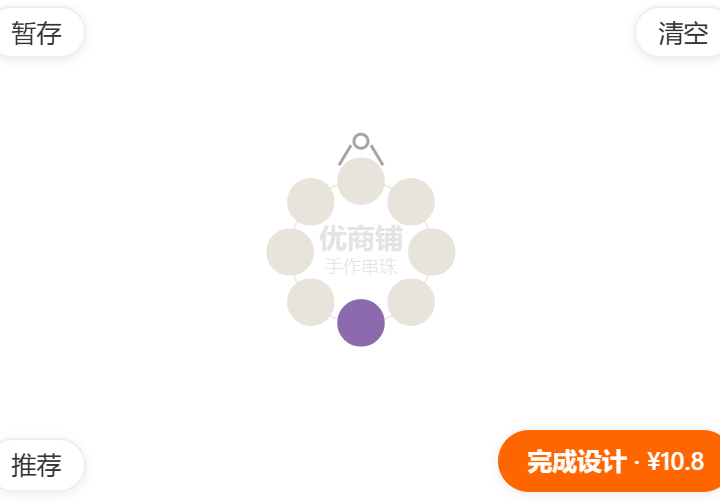
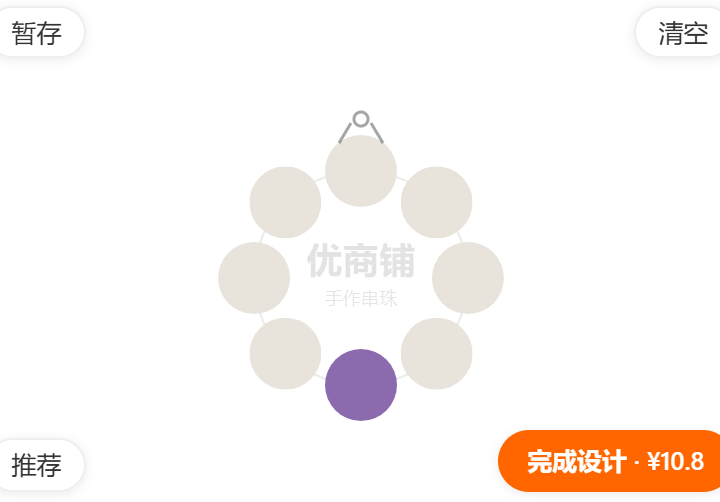
feat(diy): 画布布局方案 A——绳结顶置·环贴底，珠子渲染尺寸 +40~56%
- BeadRing render: 顶部固定预留绳结带 26px，环在剩余空间垂直居中；替代 decorExt=18mm 上下对称压缩（绳结只在顶部、底部空间纯浪费）
- 有配饰挂坠时按挂坠实际外伸（坠半径+挂钩 6px）上下追加预留，两轮迭代收敛
- geo.cy 全链路跟随（轨道圆/水印/drawRing/knotY/配饰挂点/拖拽命中）
- _verify_diy_p72: calibrate 升级双珠心 runs 扫描自适应环心 + 过环心水平行交叉验证；出环删除改右侧（贴底后下方无环外空间）；track/watermark 采样中心改环心
- 回归 15/15 PASS：n8 珠半径 11.2->17.5px（+56%）、n4 12.5->17.7（+40%）

Changed region(s): [[0.3056, 0.2092, 0.7028, 0.8367]]

diff --git a/src/pkg-diy/components/BeadRing.vue b/src/pkg-diy/components/BeadRing.vue
@@ -113,17 +113,33 @@ function render() {
     // 珠心轨迹半径（mm）：Σ(珠径+间隙) / 2π，下限防 1-2 颗时退化
     const centerR = Math.max(maxR + 4, (beads.length * (maxR * 2 + gapMm)) / (Math.PI * 2));
     const pad = 6;
-    const decorExt = (props.decors?.length ?? 0) > 0 || props.knotVisible !== false ? 18 : 0;
-    const scale = Math.min(6, Math.max(0.3, Math.min(
-        (w / 2 - pad) / (centerR + maxR),
-        (h / 2 - pad) / (centerR + maxR + decorExt),
-    )));
+    // 绳结顶置·环贴底（方案 A）：顶部固定预留绳结带，环在剩余空间垂直居中，
+    // scale 不再被 decorExt 上下对称压缩；有配饰挂坠时按挂坠实际外伸上下追加预留（迭代收敛）
+    const hasDecor = (props.decors?.length ?? 0) > 0;
+    const knotSpace = props.knotVisible !== false ? 26 : 0;
+    const decorMm = hasDecor
+        ? Math.max(0, ...(props.decors ?? []).map(d => {
+            const r0 = (props.decorRows ?? []).find(x => x.id === d.materialId);
+            return (r0?.diameter ?? r0?.axialLength ?? 8) / 2;
+        }))
+        : 0;
+    const scaleH = (w / 2 - pad) / (centerR + maxR);
+    let decorPx = decorMm > 0 ? decorMm * scaleH + 6 : 0;   // 挂钩外伸 ≈ 坠半径 + 6px
+    let scale = 1;
+    for (let it = 0; it < 3; it++) {
+        const avail = h - knotSpace - 2 * decorPx - 2 * pad;
+        scale = Math.min(6, Math.max(0.3, Math.min(scaleH, avail / 2 / (centerR + maxR))));
+        const next = decorMm > 0 ? decorMm * scale + 6 : 0;
+        if (Math.abs(next - decorPx) < 0.5) { decorPx = next; break; }
+        decorPx = next;
+    }
+    const cy = pad + knotSpace + decorPx + (h - knotSpace - 2 * decorPx - 2 * pad) / 2;
     const ringR = centerR * scale;
-    geo = { cx: w / 2, cy: h / 2, ringR, scale, radii: radiiMm, n: beads.length };
+    geo = { cx: w / 2, cy, ringR, scale, radii: radiiMm, n: beads.length };
     // 细轨道圆（珠心轨迹，先于珠子绘制；H5 单位矩阵铁律：禁 scale(dpr)）
     ctx.strokeStyle = 'rgba(0,0,0,0.08)';
     ctx.lineWidth = 1;
-    ctx.beginPath(); ctx.arc(w / 2, h / 2, ringR, 0, Math.PI * 2); ctx.stroke();
+    ctx.beginPath(); ctx.arc(w / 2, cy, ringR, 0, Math.PI * 2); ctx.stroke();
     // 环心水印：品牌名 + 标语（透明度 0.10~0.12）
     const wm = props.brandWatermark || '';
     const slogan = props.brandSlogan || '';
@@ -134,12 +150,12 @@ function render() {
         if (wm) {
             ctx.fillStyle = 'rgba(0,0,0,0.11)';
             ctx.font = `600 ${fs1}px sans-serif`;
-            ctx.fillText(wm, w / 2, h / 2 - (slogan ? fs1 * 0.15 : fs1 * 0.35));
+            ctx.fillText(wm, w / 2, cy - (slogan ? fs1 * 0.15 : fs1 * 0.35));
         }
         if (slogan) {
             ctx.fillStyle = 'rgba(0,0,0,0.10)';
             ctx.font = `${fs2}px sans-serif`;
-            ctx.fillText(slogan, w / 2, h / 2 + fs1 * 0.75);
+            ctx.fillText(slogan, w / 2, cy + fs1 * 0.75);
         }
     }
     const rs: RenderBead[] = beads.map((b, i) => ({
@@ -150,10 +166,10 @@ function render() {
         sprite: (b.renderUrl && spriteMap.value.get(b.renderUrl)) || null,
         seed: hashSeed(b.materialId || b.color),
     }));
-    drawRing(ctx, rs, w / 2, h / 2, ringR, ringR);
+    drawRing(ctx, rs, w / 2, cy, ringR, ringR);
     // 结位（12 点位）：结点 + 双线尾；隐藏时仅留小刻度点
     decorPos = new Map();
-    const knotY = h / 2 - ringR - maxR * scale - 8;
+    const knotY = cy - ringR - maxR * scale - 8;
     knotPos = { x: w / 2, y: knotY - 12 };
     if (props.knotVisible !== false) {
         ctx.strokeStyle = 'rgba(0,0,0,0.35)'; ctx.lineWidth = 1.5;
@@ -174,7 +190,7 @@ function render() {
         } else {
             const a = -Math.PI / 2 + (Math.PI * 2 * (d0.slot + 0.5)) / geo.n;
             ax = w / 2 + (ringR + maxR * scale) * Math.cos(a);
-            ay = h / 2 + (ringR + maxR * scale) * Math.sin(a);
+            ay = cy + (ringR + maxR * scale) * Math.sin(a);
         }
         decorPos.set(d0.decorId, { x: ax, y: ay });
         drawDecorAt(ax, ay, d0);

diff --git a/scripts/_verify_diy_p72.py b/scripts/_verify_diy_p72.py
@@ -136,11 +136,32 @@ def main():
             cv_el().screenshot(path=tmp)
             img = Image.open(tmp).convert('RGB')
             s = img.width / b['width']
-            yc, xc = img.height // 2, img.width // 2
+            xc = img.width // 2
             # 背景采样避开四角悬浮按钮及其阴影（角落已被 fab 覆盖），取顶部中央纯画布区
             bg = img.getpixel((xc, 4))
             def diff(p, q):
                 return max(abs(a - b2) for a, b2 in zip(p, q))
+            # 环贴底（方案 A）：环心不再等于画布中心。x=xc 整列 runs 扫描，最长两段 = 底珠/顶珠
+            # （水印笔画/绳结 run 均短于珠 run），珠心均值 = 环心、珠心距/2 = ring，对布局自适应
+            runs = []
+            yy = img.height - 3
+            while yy > 2:
+                if diff(img.getpixel((xc, yy)), bg) > 32:
+                    y_end = yy
+                    while yy > 2 and diff(img.getpixel((xc, yy)), bg) > 32:
+                        yy -= 1
+                    runs.append((yy + 1, y_end))
+                yy -= 1
+            assert len(runs) >= 2, f'col runs fail {runs}'
+            runs.sort(key=lambda r0: r0[1] - r0[0], reverse=True)
+            (t1, e1), (t2, e2) = runs[0], runs[1]
+            y_bot = max(t1 + e1, t2 + e2) / 2
+            y_top = min(t1 + e1, t2 + e2) / 2
+            bead = min(e1 - t1, e2 - t2) / 2 / s
+            ring = (y_bot - y_top) / 2 / s
+            cy_img = (y_bot + y_top) / 2
+            # 过环心水平行交叉验证：左右珠外缘 = ring + bead（n4/n8 布局 0°/180° 恒有珠）
+            yc = int(cy_img)
             xr = xl = None
             for x in range(img.width - 3, xc, -1):
                 if diff(img.getpixel((x, yc)), bg) > 25:
@@ -148,26 +169,11 @@ def main():
             for x in range(3, xc):
                 if diff(img.getpixel((x, yc)), bg) > 25:
                     xl = x; break
-            # 底部向上列扫描（x=xc）：90° 位恒有珠（n4 idx2 / n8 idx4），第一个连续非 bg run = 底珠，
-            # run 上下缘给出 ring±bead；免疫环心水印/slogan（浅色且与珠间有 bg 间隔）与 12 点位绳结
-            ye = yb = None
-            for yy in range(img.height - 3, yc, -1):
-                if diff(img.getpixel((xc, yy)), bg) > 32:
-                    ye = yy
-                    break
-            if ye:
-                yy = ye
-                while yy > yc and diff(img.getpixel((xc, yy)), bg) > 32:
-                    yy -= 1
-                yb = yy + 1
-            assert xr and xl and ye and yb, f'scan fail xr={xr} xl={xl} ye={ye} yb={yb}'
+            assert xr and xl, f'h-scan fail xr={xr} xl={xl}'
             r_out = (xr - xl) / 2 / s                       # 水平：ring + bead
-            ring_v = ((ye + yb) / 2 - img.height / 2) / s   # 环心到底珠中心 = ring
-            bead_v = (ye - yb) / 2 / s                      # run 半高 = bead
-            assert abs(r_out - (ring_v + bead_v)) < 4, f'geo mismatch h={r_out:.1f} v={ring_v + bead_v:.1f}'
-            ring, bead = ring_v, bead_v
+            assert abs(r_out - (ring + bead)) < 4, f'geo mismatch h={r_out:.1f} v={ring + bead:.1f}'
             print(f'  [cal {tag}] ring={ring:.1f} bead={bead:.1f} (R_out={r_out:.1f})')
-            return b['x'] + b['width'] / 2, b['y'] + b['height'] / 2, ring, bead
+            return b['x'] + b['width'] / 2, b['y'] + cy_img / s, ring, bead
 
         cx, cy, ring4, bead4 = calibrate('n4')
 
@@ -186,8 +192,8 @@ def main():
         seq2 = strip_colors()
         check('swap-2', seq2 == [color_a, color_b, color_b, color_a], f'seq={seq2}')
 
-        # ---------- 判据 3：出环删除（底部珠 i2 → 下方出环） ----------
-        drag(line(cx, cy + ring4, cx, cy + ring4 * 1.9))
+        # ---------- 判据 3：出环删除（底部珠 i2 → 右侧出环；环贴底后下方无环外空间） ----------
+        drag(line(cx, cy + ring4, cx + ring4 * 1.9, cy))
         seq3 = strip_colors()
         check('remove', len(seq3) == 3, f'{len(seq0)}->{len(seq3)} seq={seq3}')
 
@@ -247,7 +253,7 @@ def main():
         s8 = img.width / b8['width']
         bg8 = img.getpixel((4, 4))
         bg_lum = sum(bg8) / 3
-        ex, ey = b8['width'] / 2, b8['height'] / 2   # 画布中心（元素坐标）
+        ex, ey = b8['width'] / 2, cy - b8['y']   # 环心（calibrate 自适应；环贴底后 ≠ 画布中心）
         def px(x, y):
             return img.getpixel((min(max(int(x * s8), 0), img.width - 1),
                                  min(max(int(y * s8), 0), img.height - 1)))
@@ -274,10 +280,10 @@ def main():
                     cnt += 1
         check('watermark', cnt > 20, f'dark={cnt}')
 
-        # ---------- 判据 4b：delete 红圈预览（hold 截图）+ 8→7 ----------
+        # ---------- 判据 4b：delete 红圈预览（hold 截图）+ 8→7（右侧出环，环贴底后下方无空间） ----------
         b4 = (cx, cy + ring8)
-        drop_y = cy + min(ring8 * 1.9, b8['height'] / 2 - 6)
-        drag(line(b4[0], b4[1], b4[0], drop_y), hold=True)
+        drop_x = cx + min(ring8 * 1.9, b8['width'] / 2 - 6)
+        drag(line(b4[0], b4[1], drop_x, cy), hold=True)
         page.wait_for_timeout(150)
         shot_del = os.path.join(SHOTS, 'p72-delete-preview.png')
         cv_el().screenshot(path=shot_del)

diff --git a/docs/pkg-diy-操作手册.md b/docs/pkg-diy-操作手册.md
@@ -71,11 +71,13 @@
 ### 5.2 常驻素材面板
 - 设计器底部常驻「素材」面板（替代原弹层抽屉）：左侧分类栏 + 右侧素材网格 + 顶部搜索框，点素材直接追加到手串，无需切换弹层即可连续加珠；「珠子 / 配饰」双 tab 切换。
 - 非 free 模式下摘要条打开计算明细/槽位浮层，选槽位后点素材卡即指派。
-- **分页 + 自定义滚动条**（2026-10-14）：素材超出单页 9 款（3 列 × 3 行）自动出现页码条（‹ 1 2 … 8 ›，页码直达 + 上一页/下一页，页数多自动折叠省略号），切 tab/分类/搜索自动回第 1 页、总页数收缩自动收敛当前页；网格与分类栏自带 5px 品牌橙自定义滚动条纵向滚动兜底；翻页/切分类有 160ms 淡入过渡，交互响应实测 3~7ms（<100ms）。
+- **分页 + 自定义滚动条**（2026-10-14）：素材超出单页 9 款（3 列 × 3 行）自动出现页码条（‹ 1 2 … 8 ›，页码直达 + 上一页/下一页，页数多自动折叠省略号），切 tab/分类/搜索自动回第 1 页、总页数收缩自动收敛当前页；网格与分类栏自带 5px 品牌橙自定义滚动条纵向滚动兜底；翻页/切分类有 160ms 淡入过渡，交互响应实测 3~9ms（<100ms）。
+- **分类过滤修复**（2026-10-14）：修复点分类恒 0 款的类型不一致 bug（素材 categoryId 后端数值 vs 分类字符串 id，严格不等恒过滤为空），统一 `String()` 比较后切分类/分类下搜索均正常命中（线上实测：点分类 9 款、分类下搜「紫」4 款）。
 
 ### 5.3 环心水印与轨道圆
 - 画布环心绘制店铺品牌水印（品牌名 + 标语，透明度 0.10~0.12），取自租户 shopName，未配置时自动省略。
 - 珠心轨迹绘制细灰轨道圆（rgba 0.08），拖拽落点参照更直观。
+- **绳结顶置·环贴底布局**（2026-10-14，方案 A）：顶部固定预留绳结带 26px，手串在剩余空间垂直居中——替代原 decorExt=18mm 上下对称预留（绳结只在顶部、底部空间纯浪费），珠子渲染尺寸提升约 40~56%（实测 6mm 珠 8 颗校准半径 11.2→17.5px）。有配饰挂坠时按挂坠实际外伸（坠半径 + 挂钩 6px）上下追加预留，两轮迭代收敛。
 
 ### 5.4 配饰素材：隔片 / 挂坠 / 装饰珠（2026-10-13）
 - 素材面板分「珠子 / 配饰」两个 tab：`attrs.decor=true` 的素材归配饰 tab（15 款种子：隔片 ×6、挂坠 ×4、装饰珠 ×5），含价格与尺码（mm），与珠子同等计价。
@@ -122,6 +124,7 @@
 | ![摘要浮层](pkg-diy-p7-screens/p72-summary-sheet.png) | P7.2 常驻面板 + 计算摘要浮层 |
 | ![设计器全景](pkg-diy-p7-screens/p72-designer-full.png) | 四角悬浮操作版设计器全景（面板 3 行网格） |
 | ![面板分页](pkg-diy-p7-screens/p72-panel-pager.png) | 素材面板分页条 + 自定义滚动条 |
+| ![分类过滤命中](pkg-diy-p7-screens/p72-cat-filter.png) | 线上点分类命中 9 款（分类过滤修复后实测） |
 | ![配饰 tab](pkg-diy-p7-screens/decor-tab-panel.png) | 配饰素材 tab：隔片/挂坠/装饰珠 15 款（价格+尺码） |
 | ![配饰手串全景](pkg-diy-p7-screens/decor-bracelet-full.png) | 松石隔片串入环上 + 翡翠平安扣挂环外（带挂钩） |
 | ![素材详情弹窗](pkg-diy-p7-screens/decor-detail-popup.png) | 长按素材卡：规格/单价/寓意/产地/莫氏硬度 |
@@ -164,6 +167,7 @@
 | 30 | 挂坠挂环外 | 点卡 addDecor 只加价不加颗数，画布带挂钩 | ✅ |
 | 31 | 素材详情弹窗 | 长按弹规格/单价/寓意/产地/莫氏硬度（多语言） | ✅ |
 | 32 | 珠子详情增补 | 50 条现有珠子 attrs 补 meaning/origin/hardness | ✅ |
+| 33 | 绳结顶置·环贴底（2026-10-14） | 环在绳结带下方剩余空间居中、不触边，珠径提升 ≥40%；拖拽/落隙/删除回归 15/15 | ✅ |
 
 > P7.2 回归以 Playwright 合成触摸事件驱动（CDP touch 在本环境不送达 canvas），脚本 `scripts/_verify_diy_p72.py` 共 15 项判据全部通过。
 
@@ -172,5 +176,5 @@
 - 微信小程序端素材贴图首期降级为 preset 层渲染（sprite loader H5 优先）。
 - 广场排序：默认发布时间倒序；筛选 chips 仅「最新/推荐」两档。
 - 方案快照不可变：素材改价后，存量方案仍按下单时服务端实时价复算成交（以服务端为准）。
-- 素材面板部分分类 chips 下暂无素材（数据侧未挂素材），过滤结果为空属数据问题非功能缺陷。
+- 素材面板部分分类 chips 下暂无素材（数据侧未挂素材），空结果属数据问题非功能缺陷；分类过滤本身已修复（2026-10-14 类型不一致导致恒空 bug）。
 - 压珠命中半径为珠径 ×1.6 的近似手感值，密集小珠相邻命中以「极坐标最近珠」优先。
